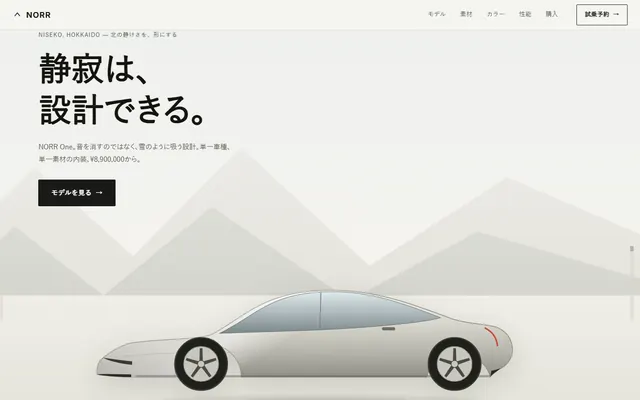
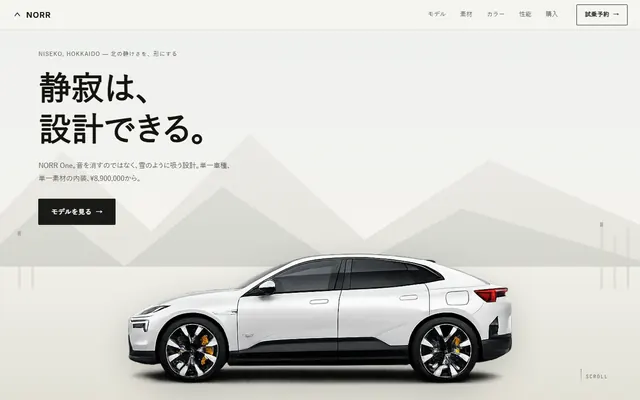
norr: ユーザー提供AI画像で実写化(ヒーロー=car68真横/組立演出=car67部品10点をアルファ連結成分で自動切り出し・スクロール収束→完成車クロスフェード/assemble-scroll.js部品化/WebP q68でPerf90維持)

diff --git a/車/norr_20260716_02/index.html b/車/norr_20260716_02/index.html
@@ -5,6 +5,7 @@
 <meta name="viewport" content="width=device-width, initial-scale=1.0">
 <title>NORR One — 静寂は、設計できる。ニセコ発・単一素材のリフトバックEV</title>
 <meta name="description" content="北海道ニセコ発のEVメーカーNORR。単一車種「NORR One」は、音を消すのではなく雪のように吸う設計。WLTC 620km、単一素材の内装、¥8,900,000から。">
+<link rel="preload" href="img/car-side.webp" as="image" type="image/webp">
 <link rel="preload" href="fonts/Inter-700.woff2" as="font" type="font/woff2" crossorigin>
 <link rel="preload" href="fonts/Inter-400.woff2" as="font" type="font/woff2" crossorigin>
 <link rel="stylesheet" href="style.css">
@@ -80,92 +81,35 @@
     <a class="btn btn-solid" href="#rotate">モデルを見る<span class="arrow" aria-hidden="true">→</span></a>
   </div>
 
-  <figure class="hero-car" aria-hidden="true">
+  <figure class="hero-car" aria-hidden="false">
     <div class="car-stage">
-      <svg class="car-svg car-hero" viewBox="0 0 1200 460" role="img" aria-label="NORR One の側面像。石灰石グレーのリフトバックが雪原に静かに置かれている">
-        <defs>
-          <linearGradient id="paintA" x1="0" y1="0" x2="0" y2="1">
-            <stop offset="0" stop-color="#f2f1ec"/>
-            <stop offset=".38" stop-color="#d7d6cd"/>
-            <stop offset=".7" stop-color="#b7b6ac"/>
-            <stop offset="1" stop-color="#8f8e85"/>
-          </linearGradient>
-          <linearGradient id="sheenA" x1="0" y1="0" x2="1" y2=".3">
-            <stop offset="0" stop-color="#fff" stop-opacity="0"/>
-            <stop offset=".45" stop-color="#fff" stop-opacity=".55"/>
-            <stop offset=".58" stop-color="#fff" stop-opacity="0"/>
-            <stop offset="1" stop-color="#fff" stop-opacity="0"/>
-          </linearGradient>
-          <linearGradient id="glassA" x1="0" y1="0" x2="0" y2="1">
-            <stop offset="0" stop-color="#dfe9ea"/>
-            <stop offset=".5" stop-color="#aeb9bc"/>
-            <stop offset="1" stop-color="#7c8689"/>
-          </linearGradient>
-          <radialGradient id="shadowA" cx=".5" cy=".5" r=".5">
-            <stop offset="0" stop-color="#000" stop-opacity=".22"/>
-            <stop offset="1" stop-color="#000" stop-opacity="0"/>
-          </radialGradient>
-          <linearGradient id="rimTop" x1="0" y1="0" x2="0" y2="1">
-            <stop offset="0" stop-color="#fff" stop-opacity=".9"/>
-            <stop offset="1" stop-color="#fff" stop-opacity="0"/>
-          </linearGradient>
-        </defs>
-
-        <ellipse cx="600" cy="398" rx="470" ry="26" fill="url(#shadowA)"/>
-
-        <g class="car-body">
-          <path class="bodyshell" d="M90 330 C88 316 92 300 104 292 C118 280 138 266 168 258 C240 248 300 252 350 240 C400 214 440 176 500 156 C548 140 596 136 650 138 C740 142 820 172 900 202 C944 216 980 214 1004 222 C1024 230 1038 246 1040 268 C1042 288 1032 306 1014 316 L992 322 L990 336 A76 76 0 0 0 844 336 L420 336 A76 76 0 0 0 268 336 L178 336 C136 336 100 332 90 330 Z"
-            fill="url(#paintA)" stroke="#8a897f" stroke-width="1.6"/>
-          <path class="bodyshell" d="M90 330 C88 316 92 300 104 292 C118 280 138 266 168 258 C240 248 300 252 350 240 C400 214 440 176 500 156 C548 140 596 136 650 138 C740 142 820 172 900 202 C944 216 980 214 1004 222 C1024 230 1038 246 1040 268 C1042 288 1032 306 1014 316 L992 322 L990 336 A76 76 0 0 0 844 336 L420 336 A76 76 0 0 0 268 336 L178 336 C136 336 100 332 90 330 Z"
-            fill="url(#sheenA)"/>
-          <path d="M370 236 C420 212 460 176 512 158 C552 144 596 140 646 141 C728 144 802 172 876 200 C846 210 730 222 600 228 C500 232 420 234 370 236 Z" fill="url(#glassA)" stroke="#5f6a6d" stroke-width="1"/>
-          <path d="M600 228 L602 141" stroke="#7c8689" stroke-width="2"/>
-          <path d="M150 288 C300 274 480 278 660 292 C780 300 900 306 1000 306" fill="none" stroke="#9c9b90" stroke-width="1" opacity=".6"/>
-          <path d="M178 334 L990 334" stroke="#6c6b62" stroke-width="5" opacity=".5"/>
-          <rect x="330" y="252" width="30" height="7" rx="3" fill="#6c6b62"/>
-          <rect x="742" y="222" width="30" height="7" rx="3" fill="#6c6b62"/>
-          <path class="lightbar" d="M978 224 C994 232 1004 246 1006 264" fill="none" stroke="#c9483c" stroke-width="3.4" stroke-linecap="round"/>
-          <path d="M104 292 C120 300 148 306 170 308 L170 300 C148 298 122 294 104 292 Z" fill="#3a3a34"/>
-          <path d="M90 330 C110 334 140 336 168 336 L168 330 C138 330 108 328 90 330 Z" fill="#2c2c27"/>
-          <path d="M990 336 L992 322 L1014 316 C1000 326 992 332 990 336 Z" fill="#2c2c27"/>
-        </g>
-
-        <g class="wheel" transform="translate(328,306)">
-          <circle r="60" fill="#20201c" stroke="#3a3a33" stroke-width="3"/>
-          <circle r="40" fill="#c7c6bd" stroke="#8f8e85" stroke-width="1.6"/>
-          <g class="rim" fill="#4a4a42">
-            <path d="M-3 -36 L3 -36 L4 -6 L-4 -6 Z"/><path d="M-3 -36 L3 -36 L4 -6 L-4 -6 Z" transform="rotate(72)"/><path d="M-3 -36 L3 -36 L4 -6 L-4 -6 Z" transform="rotate(144)"/><path d="M-3 -36 L3 -36 L4 -6 L-4 -6 Z" transform="rotate(216)"/><path d="M-3 -36 L3 -36 L4 -6 L-4 -6 Z" transform="rotate(288)"/>
-            <circle r="8" fill="#c7c6bd" stroke="#4a4a42" stroke-width="1.4"/>
-          </g>
-        </g>
-        <g class="wheel" transform="translate(908,306)">
-          <circle r="60" fill="#20201c" stroke="#3a3a33" stroke-width="3"/>
-          <circle r="40" fill="#c7c6bd" stroke="#8f8e85" stroke-width="1.6"/>
-          <g class="rim" fill="#4a4a42">
-            <path d="M-3 -36 L3 -36 L4 -6 L-4 -6 Z"/><path d="M-3 -36 L3 -36 L4 -6 L-4 -6 Z" transform="rotate(72)"/><path d="M-3 -36 L3 -36 L4 -6 L-4 -6 Z" transform="rotate(144)"/><path d="M-3 -36 L3 -36 L4 -6 L-4 -6 Z" transform="rotate(216)"/><path d="M-3 -36 L3 -36 L4 -6 L-4 -6 Z" transform="rotate(288)"/>
-            <circle r="8" fill="#c7c6bd" stroke="#4a4a42" stroke-width="1.4"/>
-          </g>
-        </g>
-      </svg>
+      <img class="car-photo" src="img/car-side.webp" width="856" height="304" alt="NORR One の側面。雪白のリフトバックが淡い光の中に静かに置かれている" fetchpriority="high">
     </div>
   </figure>
 
   <p class="scroll-cue" aria-hidden="true"><span></span>SCROLL</p>
 </section>
 
-<section class="rotate-sec" id="rotate" aria-label="NORR One 360度検分">
+<section class="rotate-sec" id="rotate" aria-label="NORR One 組立 — スクロールで部品が一台になる">
   <div class="rotate-stage">
-    <h2 class="sr-only">NORR One — 360度検分</h2>
-    <p class="rotate-label"><span data-azimuth>0</span>°</p>
-    <div class="rotate-car">
-      <svg class="car-svg car-turn" viewBox="0 0 1200 460" role="img" aria-label="スクロールに応じて回転するNORR Oneの側面〜前方視点">
-        <use href="#carBodyDef"/>
-      </svg>
+    <h2 class="sr-only">NORR One — 部品からの組立</h2>
+    <p class="rotate-label">ASSEMBLY <span data-azimuth>0</span>%</p>
+    <div class="rotate-car assembly">
+      <img class="asm" src="img/part-shell.webp" alt="" loading="lazy" data-dx="0" data-dy="-60" data-rot="0" style="left:9%;top:2%;width:72%">
+      <img class="asm" src="img/part-roof.webp" alt="" loading="lazy" data-dx="40" data-dy="-250" data-rot="-7" style="left:16%;top:-6%;width:64%">
+      <img class="asm" src="img/part-hood.webp" alt="" loading="lazy" data-dx="-170" data-dy="-60" data-rot="-12" style="left:1%;top:26%;width:20%">
+      <img class="asm" src="img/part-door-l.webp" alt="" loading="lazy" data-dx="-210" data-dy="60" data-rot="10" style="left:13%;top:30%;width:22%">
+      <img class="asm" src="img/part-door-r.webp" alt="" loading="lazy" data-dx="210" data-dy="40" data-rot="-10" style="left:62%;top:28%;width:23%">
+      <img class="asm" src="img/part-front.webp" alt="" loading="lazy" data-dx="-160" data-dy="110" data-rot="7" style="left:24%;top:40%;width:44%">
+      <img class="asm" src="img/part-rocker.webp" alt="" loading="lazy" data-dx="-40" data-dy="250" data-rot="-5" style="left:26%;top:64%;width:42%">
+      <img class="asm" src="img/part-rear.webp" alt="" loading="lazy" data-dx="170" data-dy="170" data-rot="6" style="left:28%;top:58%;width:46%">
+      <img class="asm" src="img/part-wheel.webp" alt="" loading="lazy" data-dx="260" data-dy="120" data-rot="80" style="left:70%;top:52%;width:20%">
+      <img class="asm-final" src="img/car-assembled.webp" width="888" height="434" alt="組み上がった NORR One の後方3/4視点" loading="lazy">
     </div>
     <ol class="rotate-notes">
-      <li class="rn is-on" data-rn="0"><span class="rn-no">01</span><h3>ドアハンドルは、消える。</h3><p>フラッシュサーフェスのハンドルは走行中は面一に沈み、Cd値0.21に貢献します。触れると4mm浮き上がる。</p></li>
-      <li class="rn" data-rn="1"><span class="rn-no">02</span><h3>光は、一本の線で足りる。</h3><p>フルLEDの一本線シグネチャーは、まぶしさの原因になる余分な光源を削った結果です。視認性は自動制御で夜間+40%増光。</p></li>
-      <li class="rn" data-rn="2"><span class="rn-no">03</span><h3>屋根は、風のために低い。</h3><p>全高1,432mm。低いルーフラインは、デザインの好みである前に、空気抵抗係数0.21のための答えです。</p></li>
+      <li class="rn is-on" data-rn="0"><span class="rn-no">01</span><h3>部品は、41点しかない。</h3><p>外装パネルは41点。一般的なSUVの6割です。分割線が少ないほど、風切り音の入口も少ない。</p></li>
+      <li class="rn" data-rn="1"><span class="rn-no">02</span><h3>締結は、音のしない順に。</h3><p>パネルの合わせ目は0.8mm公差。組立の順序は、走行時のきしみ音が最小になる順に決めてあります。</p></li>
+      <li class="rn" data-rn="2"><span class="rn-no">03</span><h3>一台に、なる。</h3><p>ニセコ工場のラインは1日あたり26台まで。急がないことも、静けさの部品です。</p></li>
     </ol>
   </div>
 </section>

diff --git a/車/norr_20260716_02/script.js b/車/norr_20260716_02/script.js
@@ -6,29 +6,29 @@
 
   function clamp(v, a, b) { return v < a ? a : v > b ? b : v; }
 
-  /* ── 回転検分: スクロール位置を0..1に正規化し、車体のrotateY角度・章切替に写像
-     Polestarの実配置写真の代わりに、静止した1台のSVGを軽く傾けて「見て回る」感覚を作る ── */
+  /* ── 組立検分: スクロール位置0..1で散らばった部品写真が定位置へ収束し、
+     終盤で完成車の実写にクロスフェードする(位置合わせの粗をフェードで吸収する設計) ── */
   function initRotate() {
     var sec = document.getElementById("rotate");
-    var car = document.querySelector(".car-turn");
     var azEl = document.querySelector("[data-azimuth]");
     var notes = document.querySelectorAll(".rn");
-    if (!sec || !car) return;
-
-    var stops = [0, 0.5, 1];
-    var angles = [10, -6, 4];
-    var azimuths = [0, 48, 96];
+    var parts = document.querySelectorAll(".asm");
+    var finalImg = document.querySelector(".asm-final");
+    if (!sec || !parts.length) return;
 
     function apply(p) {
-      var seg = p < stops[1] ? 0 : 1;
-      var segP = seg === 0 ? p / stops[1] : (p - stops[1]) / (stops[2] - stops[1]);
-      segP = clamp(segP, 0, 1);
-      var angle = angles[seg] + (angles[seg + 1] - angles[seg]) * segP;
-      var az = azimuths[seg] + (azimuths[seg + 1] - azimuths[seg]) * segP;
+      var e = 1 - Math.pow(1 - clamp(p / 0.75, 0, 1), 3);
+      var fade = clamp((p - 0.7) / 0.18, 0, 1);
       if (!reduced) {
-        car.style.transform = "perspective(1400px) rotateY(" + angle.toFixed(2) + "deg)";
+        parts.forEach(function (el) {
+          var k = 1 - e;
+          el.style.transform = "translate(" + (el.dataset.dx * k).toFixed(1) + "px," +
+            (el.dataset.dy * k).toFixed(1) + "px) rotate(" + (el.dataset.rot * k).toFixed(2) + "deg)";
+          el.style.opacity = (1 - fade).toFixed(3);
+        });
+        if (finalImg) finalImg.style.opacity = fade.toFixed(3);
       }
-      if (azEl) azEl.textContent = Math.round(az);
+      if (azEl) azEl.textContent = Math.round(e * 100);
 
       var idx = p < 0.34 ? 0 : p < 0.67 ? 1 : 2;
       notes.forEach(function (n) {
@@ -36,7 +36,13 @@
       });
     }
 
-    if (reduced) { apply(0.5); return; }
+    if (reduced) {
+      parts.forEach(function (el) { el.style.opacity = "0"; });
+      if (finalImg) finalImg.style.opacity = "1";
+      if (azEl) azEl.textContent = "100";
+      apply(1);
+      return;
+    }
 
     var running = false, rafId = 0;
     function tick() {

diff --git a/車/norr_20260716_02/style.css b/車/norr_20260716_02/style.css
@@ -215,7 +215,13 @@ h1, h2, h3, .sec-lead, .hero-lead {
   padding-bottom: 3vh;
 }
 .car-svg { display: block; width: 100%; height: auto; }
-.car-hero { filter: drop-shadow(0 18px 30px rgba(30, 30, 24, 0.14)); }
+.car-photo {
+  display: block;
+  width: min(880px, 86vw);
+  height: auto;
+  margin: 0 auto;
+  filter: drop-shadow(0 22px 34px rgba(30, 30, 24, 0.2));
+}
 
 .scroll-cue {
   position: absolute;
@@ -279,6 +285,27 @@ html.js .rotate-stage {
   transform: translateX(-50%);
 }
 .car-turn { display: block; width: 100%; height: auto; will-change: transform; }
+
+.assembly {
+  width: min(820px, 86vw);
+  aspect-ratio: 888 / 434;
+}
+.asm {
+  position: absolute;
+  height: auto;
+  will-change: transform, opacity;
+  filter: drop-shadow(0 10px 18px rgba(30, 30, 24, 0.16));
+}
+.asm-final {
+  position: absolute;
+  inset: 0;
+  width: 100%;
+  height: auto;
+  opacity: 0;
+  filter: drop-shadow(0 22px 34px rgba(30, 30, 24, 0.2));
+}
+html:not(.js) .asm { display: none; }
+html:not(.js) .asm-final { opacity: 1; }
 
 .rotate-notes {
   position: absolute;